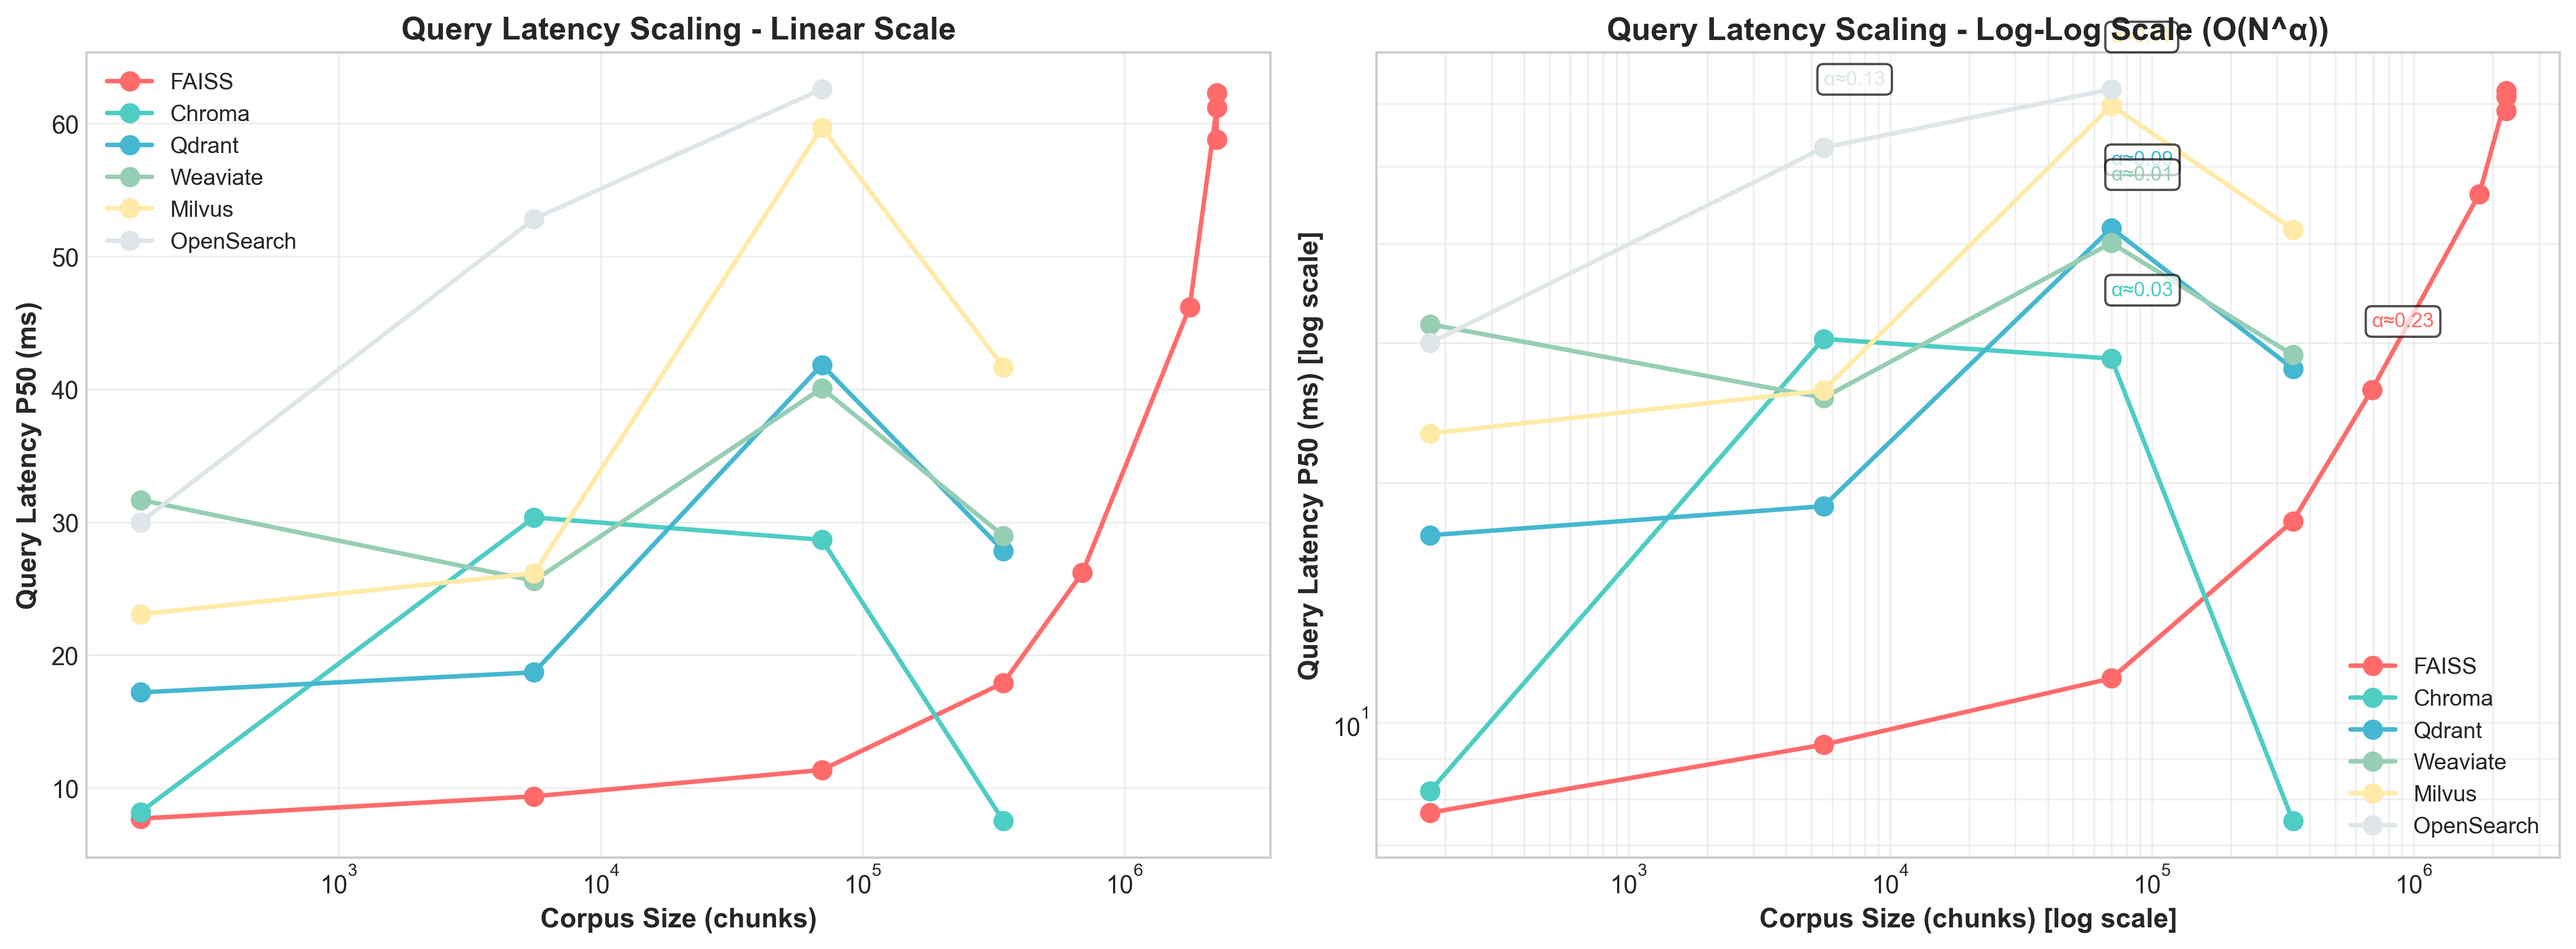
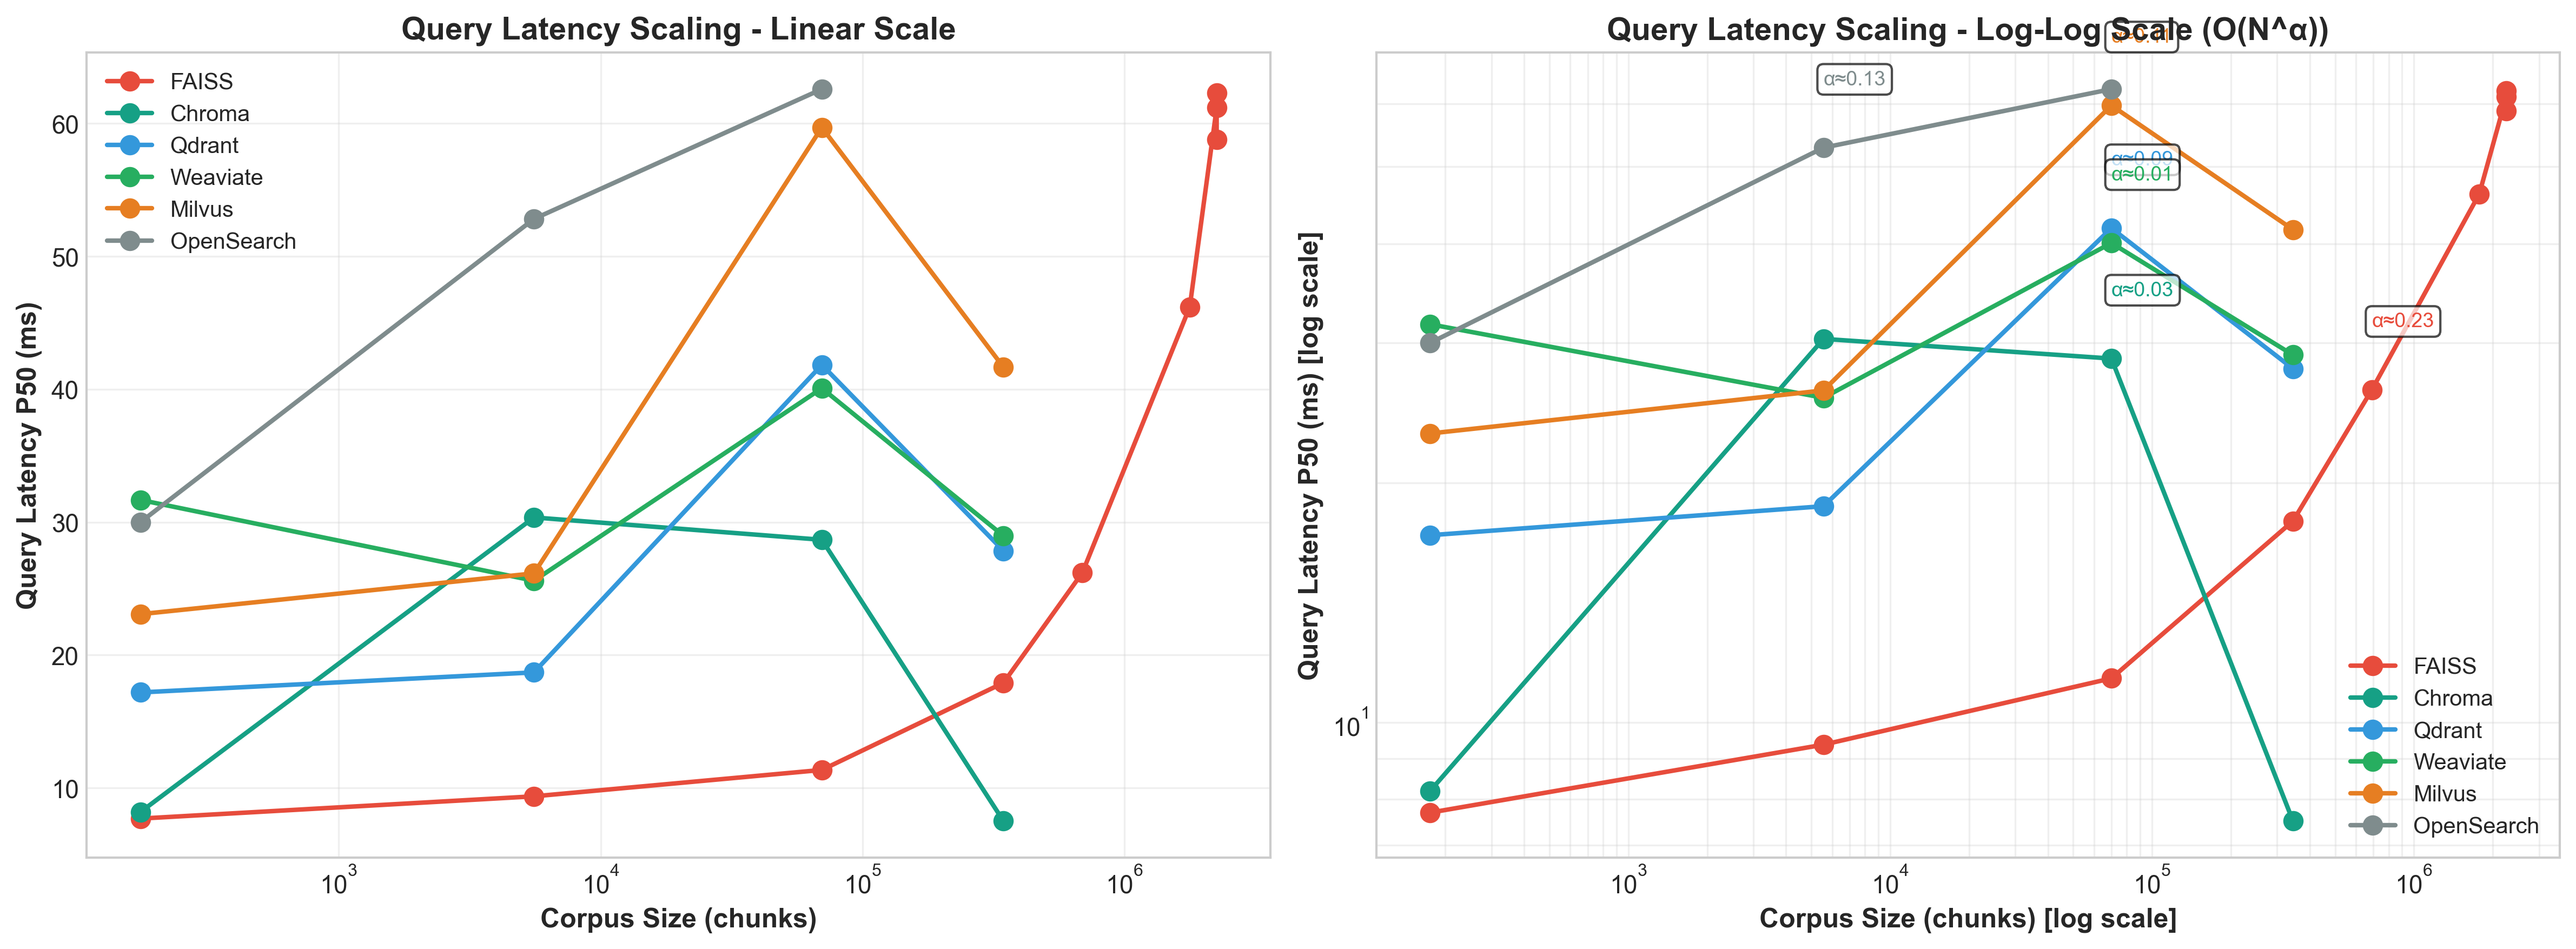
Improve color differentiation in Figure 1 scaling plots
Updated color palette for better visual distinction and accessibility:
- FAISS: Bold Red (#E74C3C) - stands out as key performer
- Chroma: Deep Teal (#16A085) - distinct from blue
- Qdrant: Royal Blue (#3498DB) - bright and clear
- Weaviate: Forest Green (#27AE60) - strong green tone
- Milvus: Orange (#E67E22) - much better than yellow
- OpenSearch: Dark Gray (#7F8C8D) - improved contrast

Benefits:
✅ Better visual separation between databases
✅ Improved colorblind accessibility (red/blue/green/orange)
✅ Higher contrast for print and presentations
✅ Orange for Milvus more visible than previous yellow
✅ Darker gray for OpenSearch improves readability

All 4 plots regenerated with new palette.

🤖 Generated with [Claude Code](https://claude.com/claude-code)

diff --git a/Scripts/plot_multi_database_scaling.py b/Scripts/plot_multi_database_scaling.py
@@ -24,15 +24,15 @@ plt.rcParams['axes.titlesize'] = 14
 plt.rcParams['legend.fontsize'] = 10
 plt.rcParams['axes.grid'] = True
 
-# Color palette for databases
+# Color palette for databases - optimized for differentiation and colorblind accessibility
 DB_COLORS = {
-    'faiss': '#FF6B6B',      # Red
-    'chroma': '#4ECDC4',     # Teal
-    'qdrant': '#45B7D1',     # Blue
-    'weaviate': '#96CEB4',   # Green
-    'milvus': '#FFEAA7',     # Yellow
-    'opensearch': '#DFE6E9', # Gray
-    'pgvector': '#A29BFE'    # Purple
+    'faiss': '#E74C3C',      # Bold Red - stands out for importance
+    'chroma': '#16A085',     # Deep Teal - distinct from blue
+    'qdrant': '#3498DB',     # Royal Blue - clear and bright
+    'weaviate': '#27AE60',   # Forest Green - strong green
+    'milvus': '#E67E22',     # Orange - better visibility than yellow
+    'opensearch': '#7F8C8D', # Dark Gray - improved contrast
+    'pgvector': '#9B59B6'    # Purple - distinct accent
 }
 
 DB_LABELS = {
